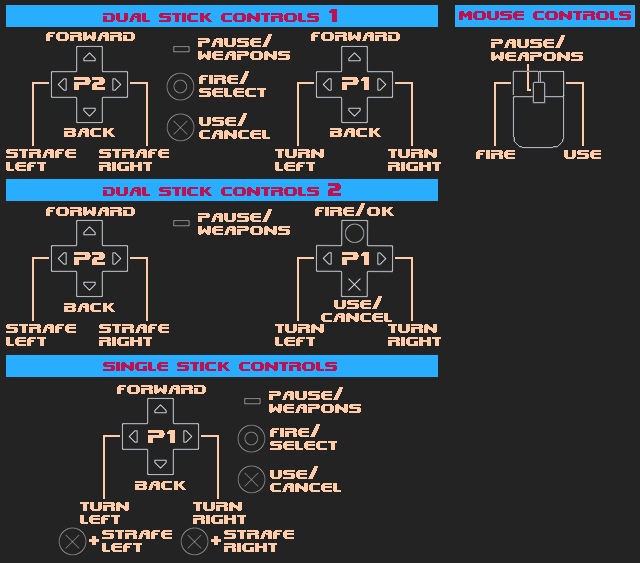
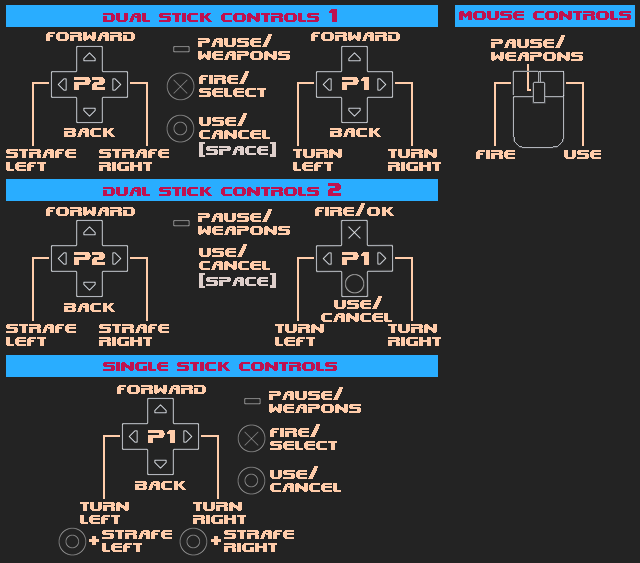
reworked controls/unified with new mouse btn feature

diff --git a/plates/fps.html b/plates/fps.html
@@ -216,10 +216,10 @@
 						}
 						if (abs(dy) > abs(dx) * 0.6) // vertical
 						{
-							// o button
-							if (dy < -deadzone) b |= 0x10;
 							// x button
-							if (dy > deadzone) b |= 0x20;
+							if (dy < -deadzone) b |= 0x20;
+							// o button
+							if (dy > deadzone) b |= 0x10;
 						}
 	
 						pico8_buttons[0] |= b;
@@ -227,35 +227,7 @@
 				}
 			}
 		}
-	
-		function track_mouse(e) {
-			// enable mouse reading
-			pico8_gpio[0] = 1;
-			// clamp value to -127/127
-			pico8_gpio[1] = 128 - Math.min(Math.max(-127,Math.round(e.movementX)),127);
-			pico8_gpio[2] = 128 - Math.min(Math.max(-127,Math.round(e.movementY)),127);
-		}
-	
-		function track_click(e, step) {
-			if (!p8_is_running) return;
-
-			// clear fire button
-			pico8_buttons[0] = 0;
-
-			// left (fire/ok)
-			if(e.buttons & 0x1) {
-				pico8_buttons[0] |= 0x10;
-			}
-			// right (open/cancel)
-			if(e.buttons & (0x2|0x8)) {
-				pico8_buttons[0] |= 0x20;
-			}
-			// middle
-			if(e.buttons & 0x4) {
-				pico8_buttons[0] |= 0x40;
-			}
-		}
-		
+			
 		// p8_update_layout_hash is used to decide when to update layout (expensive especially when part of a heavy page)
 		var p8_update_layout_hash = -1;
 		var last_windowed_container_height = 512;
@@ -564,26 +536,6 @@
 					// need to watch: https://www.chromestatus.com/feature/5723553087356928
 					canvas.requestPointerLock();					
 				});
-
-				// pointer lock event listeners
-				function lockChangeAlert() {
-					if (document.pointerLockElement === canvas ||
-							document.mozPointerLockElement === canvas) {
-						canvas.addEventListener("mousemove", track_mouse, false);
-						canvas.addEventListener("mousedown", function(event){ track_click(event, 0); });
-						canvas.addEventListener("mouseup", function(event){ track_click(event, 1); });
-					} else {
-						// reset mouse values
-						pico8_gpio[0]=0
-						pico8_gpio[1]=0
-						canvas.removeEventListener("mousemove", track_mouse, false);
-						// document.removeEventListener("click", function(event){ track_click(event, 0); }, false);
-					}
-				}	
-	
-				// Hook pointer lock state change events for different browsers
-				document.addEventListener('pointerlockchange', lockChangeAlert, false);
-				document.addEventListener('mozpointerlockchange', lockChangeAlert, false);
 			}
 			
 			// load and run script

diff --git a/models/wad_reader.py b/models/wad_reader.py
@@ -1126,7 +1126,7 @@ def pack_archive(pico_path, carts_path, root, modname, mapname, compress=False, 
     "{0}|rectfill|{1},102,{2},110,0|{0}|print|⬇,60,94,5|{0}|print|{3},{4},104,11",
     "{0}|rectfill|{1},86,{2},94,0|{0}|print|➡,68,88,5|{0}|print|{3},{4},88,11",
     "{0}|rectfill|{1},70,{2},78,0|{0}|print|⬆,60,82,5|{0}|print|{3},{4},72,11",
-    "{0}|print|❎,60,88,5"
+    "{0}|print|🅾,60,88,5"
   ]
   wp_wheel_data = "-1|ovalfill|51,81,75,99,0x22"
   for i,wp in enumerate(sorted([wp for wp in actors.values() if 'slotnumber' in wp and wp.kind==ACTOR_KIND.WEAPON], key=lambda wp: wp.slotnumber)):

diff --git a/models/setup.py b/models/setup.py
@@ -12,7 +12,7 @@ import setuptools
 # >>
 setuptools.setup(
     name="wad_reader",
-    version="3.7",
+    version="3.8",
     author="https://twitter.com/FSouchu",
     description="POOM archive compiler for PICO8",
     url="https://github.com/freds72/qk8",
